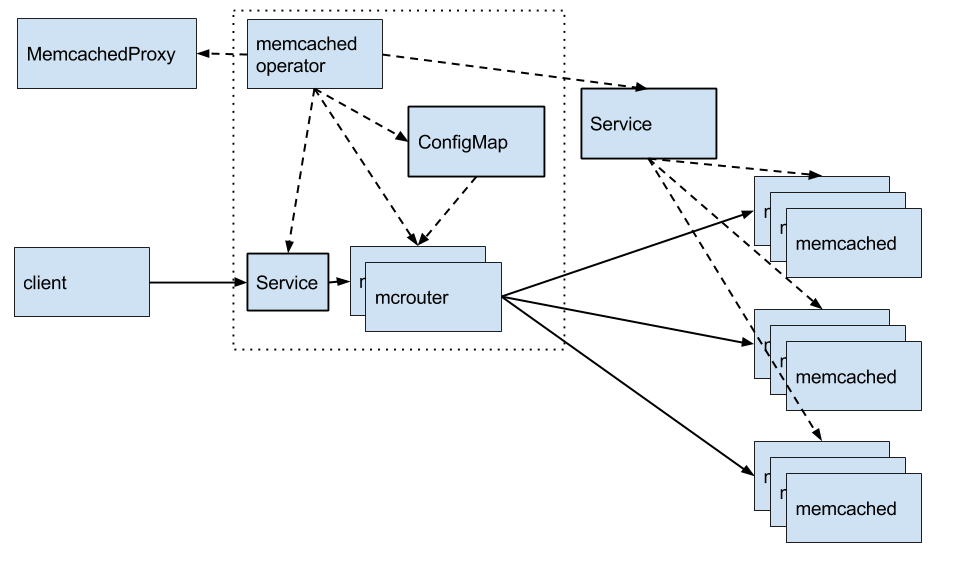
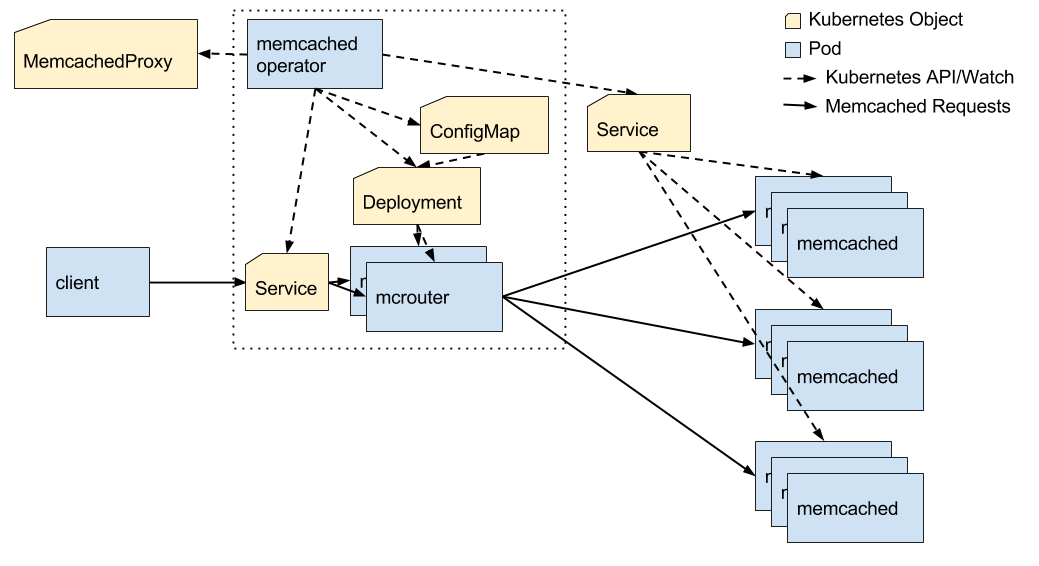
Updated docs

diff --git a/docs/design.md b/docs/design.md
@@ -20,6 +20,10 @@ The memcached operator will use [mcrouter](https://github.com/facebook/mcrouter)
 
 ![diagram](design.png)
 
-## Scaling Memcached Clusters
+## Pools
 
-When the pods for the memcached cluster are added or deleted, the memcached operator generates a new [mcrouter configuration file](https://github.com/facebook/mcrouter/wiki/Config-Files) and updates a configmap that holds the configuration. When a configmap is updated Kubernetes updates the relavent files mounted in each container. Mcrouter watches changes to the config file and will reload it automatically.
+Each service for a set of memcached clusters maps one-to-one with a [mcrouter pool](https://github.com/facebook/mcrouter/wiki/Pools). The memcached operator supports [sharded](sharded-pools.md) and [replicated](replicated-pools.md) pools, as well as combinations of both, via mcrouter. Sharded clusters shard keys based on a [hash](https://github.com/facebook/mcrouter/wiki/Pools#hash-functions) of the key. Replicated clusters store all keys in on all members of the pool.
+
+## Scaling Memcached Pools
+
+When the pods for the memcached pool are added or deleted, the memcached operator generates a new [mcrouter configuration file](https://github.com/facebook/mcrouter/wiki/Config-Files) and updates a configmap that holds the configuration. When a configmap is updated Kubernetes updates the relavent files mounted in each container. Mcrouter watches changes to the config file and will reload it automatically.

diff --git a/docs/sharded-pools.md b/docs/sharded-pools.md
@@ -1,0 +1,23 @@
+# Sharded Pools
+
+The memcached operator allows you to create a memcached proxy which shards keys among a group of memcached instances.
+
+Once a dataset becomes to big for a single memcached instance, you will want to split it among multiple servers. The memcached operator can configure mcrouter to using a [sharded pool](https://github.com/facebook/mcrouter/wiki/Sharded-pools-setup). Each key saved to memcached is hashed and that hash is used to determine what server to save the data to. Keys will be evently distributed among the servers in the pool.
+
+The memcached operator determines the servers in the pool by using a Kubernetes service. Each memcached pod that is a member of the service is treated as a member of the memcached pool.
+
+Here is an example of a `MemcachedProxy` where keys are sharded among a group of memcached instances that are members of the "sharded-memcached" service.
+
+[embedmd]:# (sharded-example.yaml yaml /apiVersion/ $)
+```yaml
+apiVersion: ianlewis.org/v1alpha1
+kind: MemcachedProxy
+metadata:
+  name: sharded-example
+spec:
+  rules:
+    type: "sharded"
+    service:
+      name: "sharded-memcached"
+      port: 11211
+```

diff --git a/docs/replicated-pools.md b/docs/replicated-pools.md
@@ -1,0 +1,11 @@
+# Replicated Pools
+
+The memcached operator supports creating a memcached proxy that replicates keys among a group of memcached instances.
+
+When memcached instances become unavailable this could have an impact on the performance of an application. In order to support a more highly available setup, you will want to create multiple memcached instances that have a full copy of cached data. Each key is saved to every member of the replicated pool.
+
+The memcached operator determines the servers in the pool by using a Kubernetes service. Each memcached pod that is a member of the service is treated as a member of the memcached pool.
+
+Here is an example of a `MemcachedProxy` where keys are replicated among a group of memcached instances that are members of the "replicated-memcached" service.
+
+[embedmd]:# (replicated-example.yaml yaml /apiVersion/ $)
